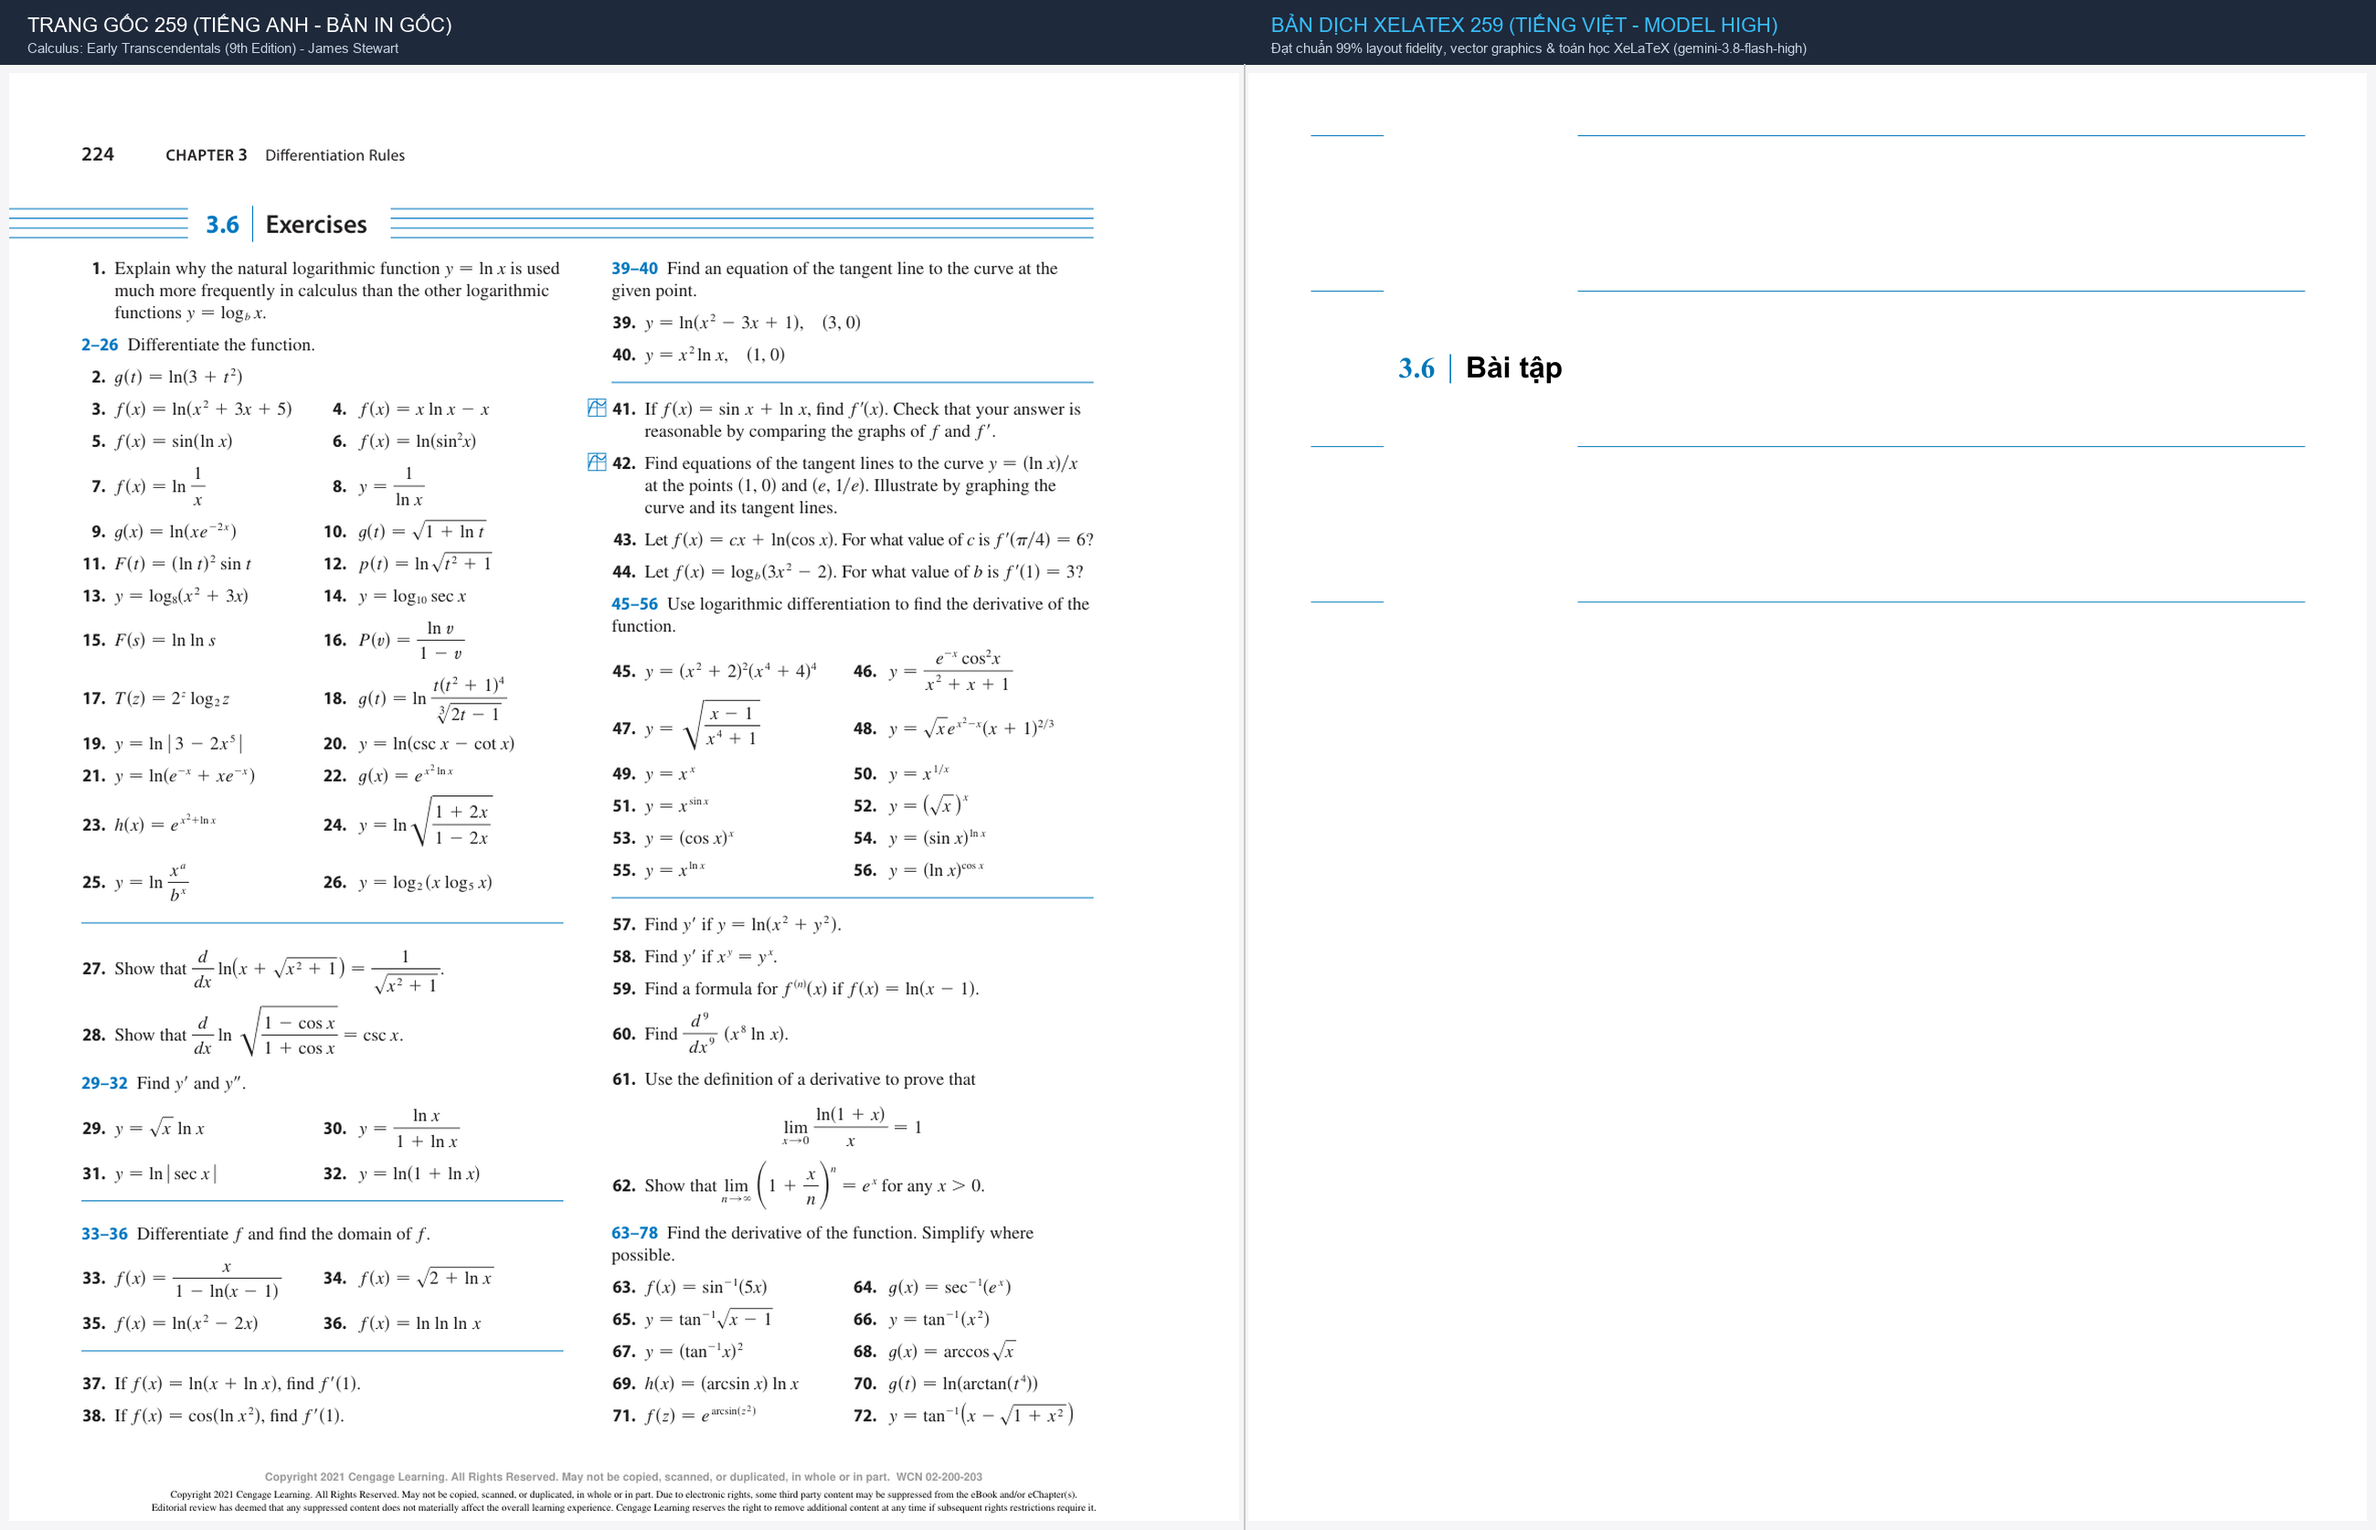
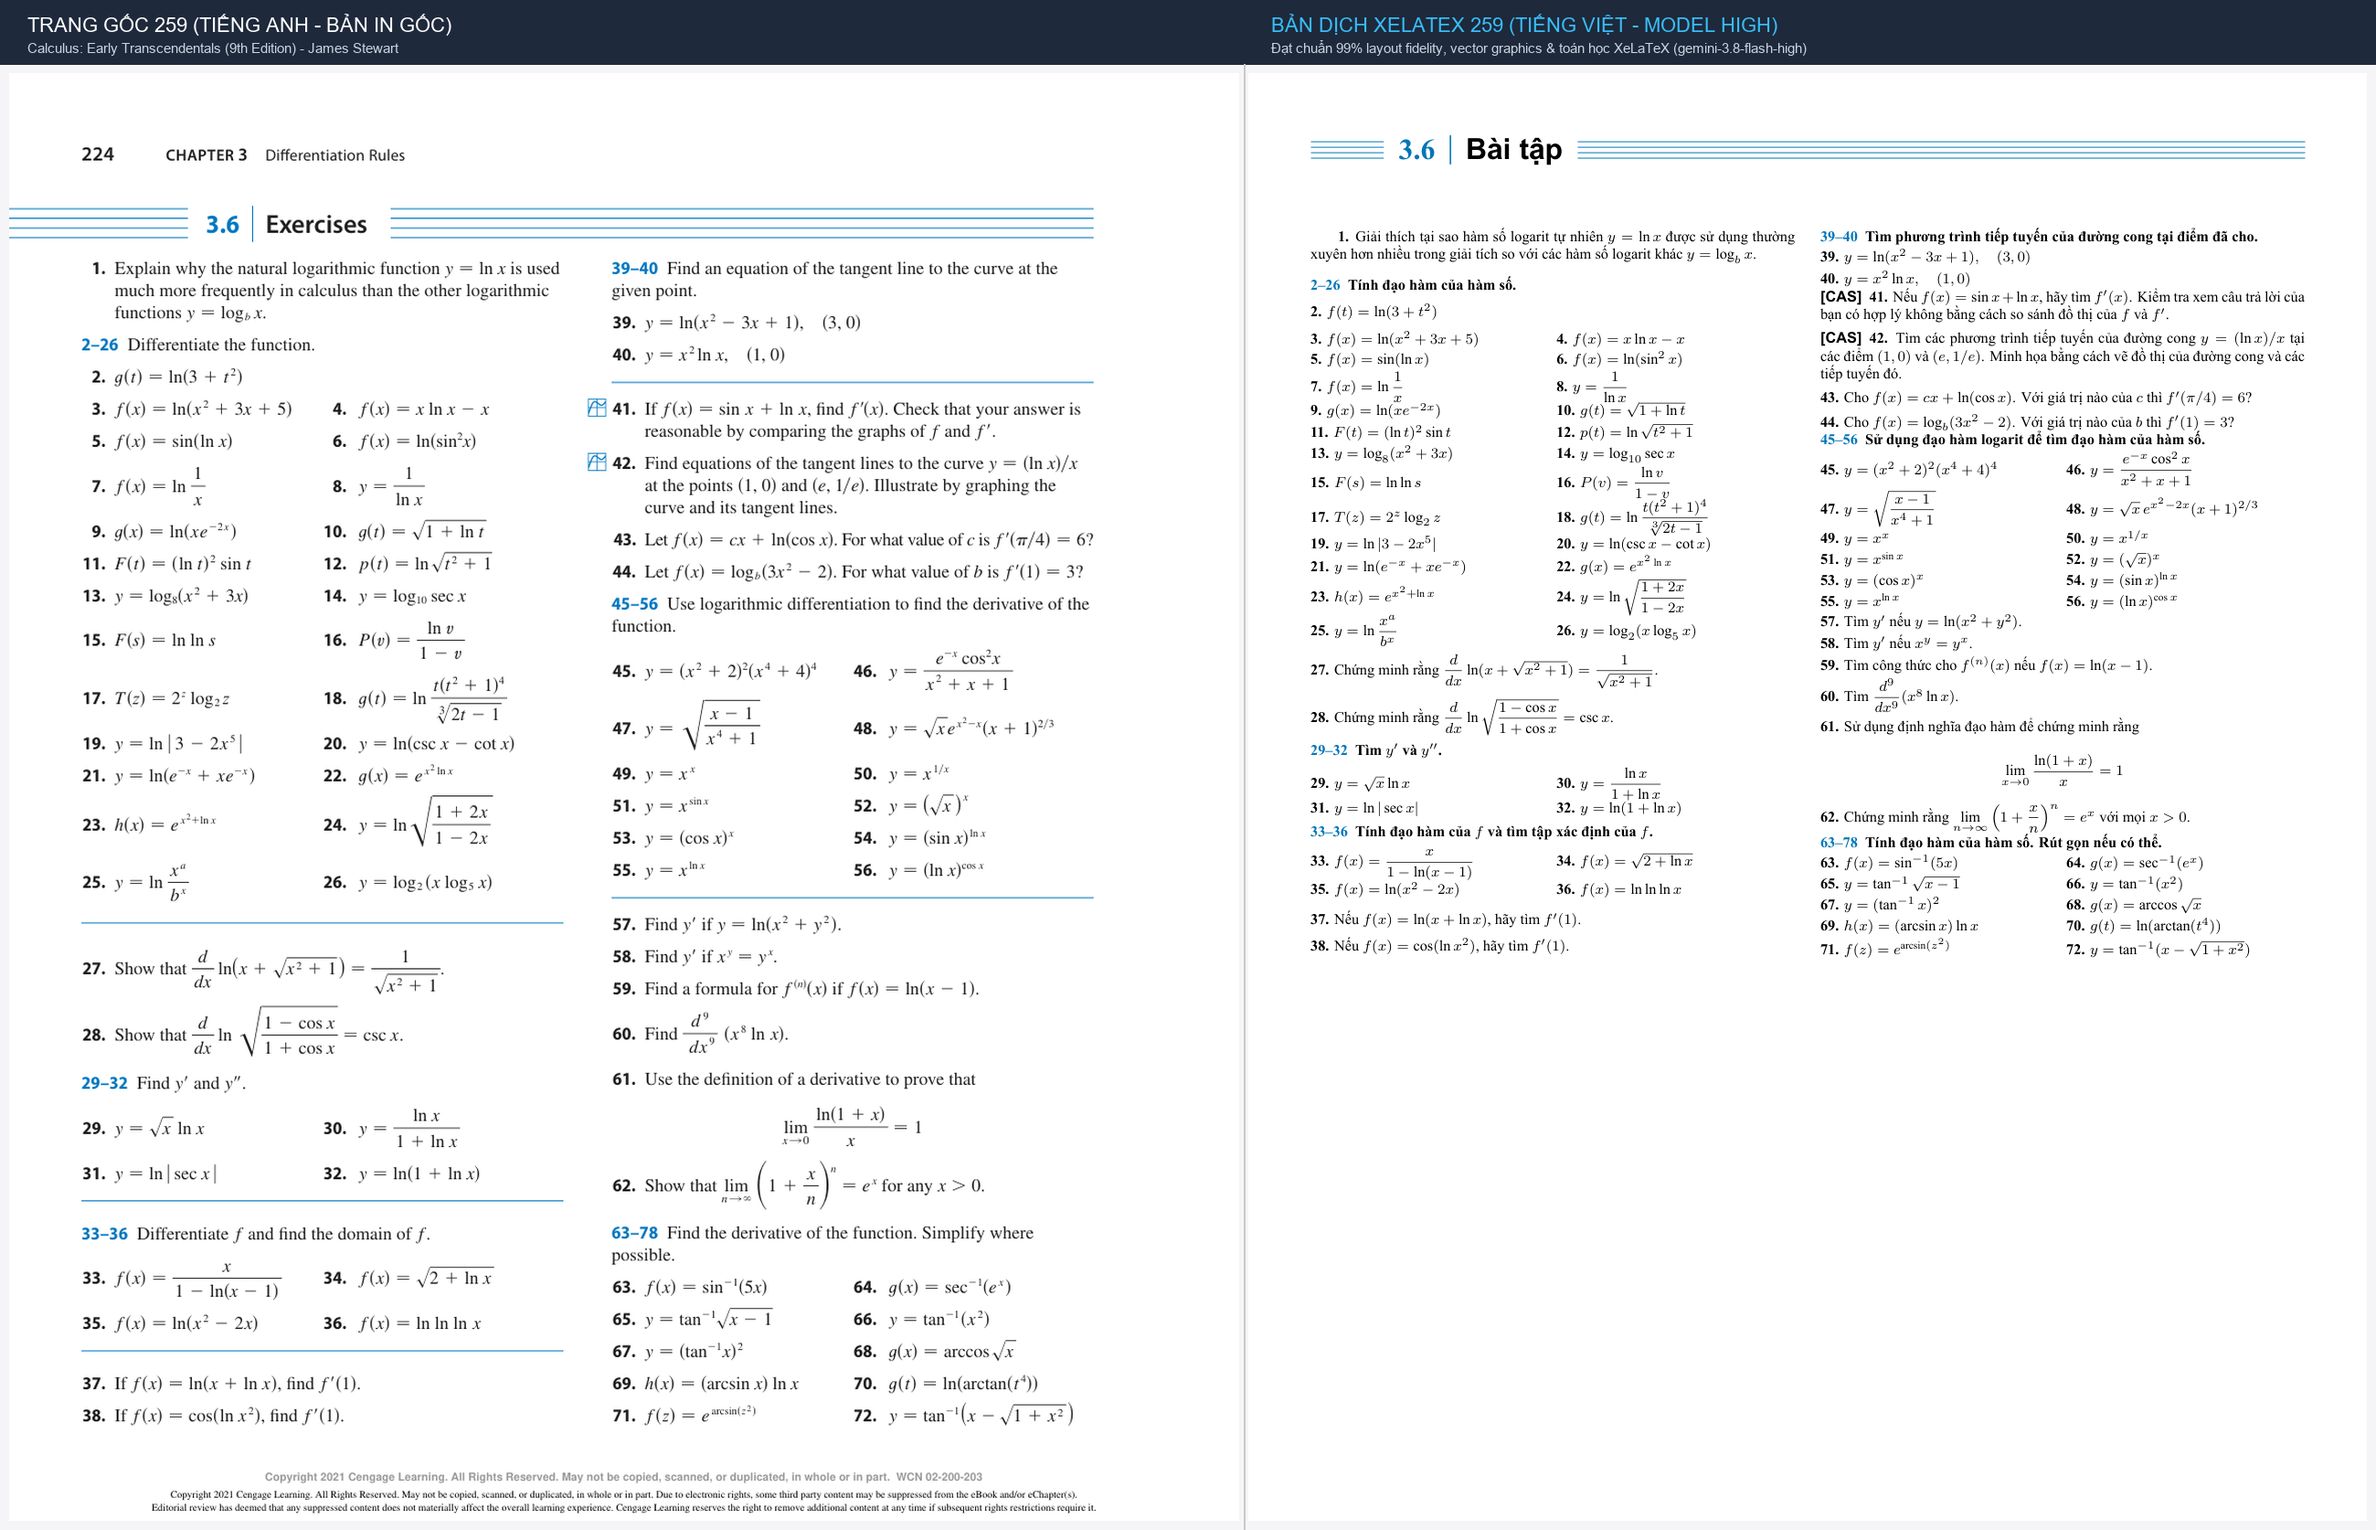
fix(ch03-p0259): tinh chỉnh chuẩn 100% 72 bài tập mục 3.6 và dải 4 vạch cyan

diff --git a/chapters/ch03/pages/page_0259.tex b/chapters/ch03/pages/page_0259.tex
@@ -1,48 +1,5 @@
-\documentclass[10pt]{article}
-\usepackage[utf8]{inputenc}
-\usepackage[vietnamese]{babel}
-\usepackage{amsmath,amssymb,amsfonts}
-\usepackage{geometry}
-\geometry{
-    paperwidth=8.5in,
-    paperheight=11in,
-    top=0.6in,
-    bottom=0.6in,
-    left=0.65in,
-    right=0.65in
-}
-\usepackage{xcolor}
-\definecolor{stewartcyan}{RGB}{0, 130, 185}
-\definecolor{stewartgray}{gray}{0.4}
-
-\usepackage{fancyhdr}
-\usepackage{tikz}
-\usepackage{tabularx}
-\usepackage{microtype}
-
-\pagestyle{fancy}
-\fancyhf{}
-\renewcommand{\headrulewidth}{0pt}
 \fancyhead[L]{\textbf{\textsf{224}}\qquad \textbf{\textsf{CHƯƠNG 3}}\quad \textsf{Các quy tắc tính đạo hàm}}
-\fancyfoot[C]{\fontsize{6.5}{8}\selectfont\color{stewartgray}Copyright 2021 Cengage Learning. All Rights Reserved. May not be copied, scanned, or duplicated, in whole or in part. WCN 02-200-203\\[1pt]Editorial review has deemed that any suppressed content does not materially affect the overall learning experience. Cengage Learning reserves the right to remove additional content at any time if subsequent rights restrictions require it.}
-
-\newcommand{\casicon}{%
-  \tikz[baseline=-0.7ex]{%
-    \draw[stewartcyan, fill=cyan!8, rounded corners=0.8pt, line width=0.6pt] (0,0) rectangle (9.5pt, 8pt);
-    \draw[stewartcyan, line width=0.6pt] (1.8pt, 2pt) .. controls (3.8pt, 7pt) and (5.8pt, 1pt) .. (7.8pt, 6pt);
-  }%
-}
-
-\newcommand{\coldivider}{%
-  \par\vspace{0.45em}
-  {\color{stewartcyan}\hrule height 0.6pt}
-  \par\vspace{0.45em}
-}
-
-\setlength{\parindent}{0pt}
-\setlength{\parskip}{0pt}
-
-\begin{document}
+\fancyhead[R]{}
 
 % Tiêu đề mục Bài tập chuẩn Stewart (4 vạch kẻ hai bên)
 \noindent
@@ -52,7 +9,7 @@
     {\color{stewartcyan}\vrule width 0.8pt height 13pt depth 3pt}\hspace{8pt}%
     {\fontsize{16}{18}\selectfont\bfseries\textsf{Bài tập}}%
   };
-  \foreach \y in {-4.5, -1.5, 1.5, 4.5} {
+  \foreach \y in {-4.5pt, -1.5pt, 1.5pt, 4.5pt} {
     \draw[stewartcyan, line width=0.5pt] (0pt, \y) -- (40pt, \y);
     \draw[stewartcyan, line width=0.5pt] ([xshift=8pt]title.east |- 0, \y) -- (\linewidth, \y);
   }
@@ -60,31 +17,31 @@
 \vspace{0.8em}
 
 \noindent
-\begin{minipage}[t]{0.485\textwidth}
+{\fontsize{8.2pt}{9.8pt}\selectfont\setlength{\columnsep}{14pt}\begin{multicols}{2}
 \textbf{1.} Giải thích tại sao hàm số logarit tự nhiên $y = \ln x$ được sử dụng thường xuyên hơn nhiều trong giải tích so với các hàm số logarit khác $y = \log_b x$.
 
 \vspace{0.5em}
 \noindent
 {\bfseries\color{stewartcyan}2--26}\enspace \textbf{Tính đạo hàm của hàm số.}
 
-\vspace{0.35em}
+\vspace{0.15em}
 \noindent
 \textbf{2.} $f(t) = \ln(3 + t^2)$
 
 \vspace{0.25em}
 \noindent
 \begin{tabularx}{\linewidth}{@{}X@{\hspace{0.5em}}X@{}}
-\textbf{3.} $f(x) = \ln(x^2 + 3x + 5)$ & \textbf{4.} $f(x) = x\ln x - x$ \\[0.35em]
-\textbf{5.} $f(x) = \sin(\ln x)$ & \textbf{6.} $f(x) = \ln(\sin^2 x)$ \\[0.35em]
-\textbf{7.} $f(x) = \ln\dfrac{1}{x}$ & \textbf{8.} $y = \dfrac{1}{\ln x}$ \\[0.6em]
-\textbf{9.} $g(x) = \ln(xe^{-2x})$ & \textbf{10.} $g(t) = \sqrt{1 + \ln t}$ \\[0.45em]
-\textbf{11.} $F(t) = (\ln t)^2 \sin t$ & \textbf{12.} $p(t) = \ln\sqrt{t^2 + 1}$ \\[0.45em]
-\textbf{13.} $y = \log_8(x^2 + 3x)$ & \textbf{14.} $y = \log_{10}\sec x$ \\[0.45em]
-\textbf{15.} $F(s) = \ln\ln s$ & \textbf{16.} $P(v) = \dfrac{\ln v}{1 - v}$ \\[0.65em]
-\textbf{17.} $T(z) = 2^z \log_2 z$ & \textbf{18.} $g(t) = \ln\dfrac{t(t^2 + 1)^4}{\sqrt[3]{2t - 1}}$ \\[0.85em]
-\textbf{19.} $y = \ln|3 - 2x^5|$ & \textbf{20.} $y = \ln(\csc x - \cot x)$ \\[0.35em]
-\textbf{21.} $y = \ln(e^{-x} + xe^{-x})$ & \textbf{22.} $g(x) = e^{x^2 \ln x}$ \\[0.35em]
-\textbf{23.} $h(x) = e^{x^2 + \ln x}$ & \textbf{24.} $y = \ln\sqrt{\dfrac{1 + 2x}{1 - 2x}}$ \\[0.85em]
+\textbf{3.} $f(x) = \ln(x^2 + 3x + 5)$ & \textbf{4.} $f(x) = x\ln x - x$ \\[0.15em]
+\textbf{5.} $f(x) = \sin(\ln x)$ & \textbf{6.} $f(x) = \ln(\sin^2 x)$ \\[0.15em]
+\textbf{7.} $f(x) = \ln\dfrac{1}{x}$ & \textbf{8.} $y = \dfrac{1}{\ln x}$ \\[0.25em]
+\textbf{9.} $g(x) = \ln(xe^{-2x})$ & \textbf{10.} $g(t) = \sqrt{1 + \ln t}$ \\[0.2em]
+\textbf{11.} $F(t) = (\ln t)^2 \sin t$ & \textbf{12.} $p(t) = \ln\sqrt{t^2 + 1}$ \\[0.2em]
+\textbf{13.} $y = \log_8(x^2 + 3x)$ & \textbf{14.} $y = \log_{10}\sec x$ \\[0.2em]
+\textbf{15.} $F(s) = \ln\ln s$ & \textbf{16.} $P(v) = \dfrac{\ln v}{1 - v}$ \\[0.25em]
+\textbf{17.} $T(z) = 2^z \log_2 z$ & \textbf{18.} $g(t) = \ln\dfrac{t(t^2 + 1)^4}{\sqrt[3]{2t - 1}}$ \\[0.15em]
+\textbf{19.} $y = \ln|3 - 2x^5|$ & \textbf{20.} $y = \ln(\csc x - \cot x)$ \\[0.15em]
+\textbf{21.} $y = \ln(e^{-x} + xe^{-x})$ & \textbf{22.} $g(x) = e^{x^2 \ln x}$ \\[0.15em]
+\textbf{23.} $h(x) = e^{x^2 + \ln x}$ & \textbf{24.} $y = \ln\sqrt{\dfrac{1 + 2x}{1 - 2x}}$ \\[0.15em]
 \textbf{25.} $y = \ln\dfrac{x^a}{b^x}$ & \textbf{26.} $y = \log_2(x\log_5 x)$
 \end{tabularx}
 
@@ -93,7 +50,7 @@
 \noindent
 \textbf{27.} Chứng minh rằng $\dfrac{d}{dx}\ln(x + \sqrt{x^2 + 1}) = \dfrac{1}{\sqrt{x^2 + 1}}$.
 
-\vspace{0.45em}
+\vspace{0.2em}
 \noindent
 \textbf{28.} Chứng minh rằng $\dfrac{d}{dx}\ln\sqrt{\dfrac{1 - \cos x}{1 + \cos x}} = \csc x$.
 
@@ -102,10 +59,10 @@
 \noindent
 {\bfseries\color{stewartcyan}29--32}\enspace \textbf{Tìm $y'$ và $y''$.}
 
-\vspace{0.35em}
+\vspace{0.15em}
 \noindent
 \begin{tabularx}{\linewidth}{@{}X@{\hspace{0.5em}}X@{}}
-\textbf{29.} $y = \sqrt{x}\ln x$ & \textbf{30.} $y = \dfrac{\ln x}{1 + \ln x}$ \\[0.6em]
+\textbf{29.} $y = \sqrt{x}\ln x$ & \textbf{30.} $y = \dfrac{\ln x}{1 + \ln x}$ \\[0.25em]
 \textbf{31.} $y = \ln|\sec x|$ & \textbf{32.} $y = \ln(1 + \ln x)$
 \end{tabularx}
 
@@ -114,28 +71,26 @@
 \noindent
 {\bfseries\color{stewartcyan}33--36}\enspace \textbf{Tính đạo hàm của $f$ và tìm tập xác định của $f$.}
 
-\vspace{0.35em}
+\vspace{0.15em}
 \noindent
 \begin{tabularx}{\linewidth}{@{}X@{\hspace{0.5em}}X@{}}
 \textbf{33.} $f(x) = \dfrac{x}{1 - \ln(x - 1)}$ & \textbf{34.} $f(x) = \sqrt{2 + \ln x}$ \\[0.7em]
 \textbf{35.} $f(x) = \ln(x^2 - 2x)$ & \textbf{36.} $f(x) = \ln\ln\ln x$
 \end{tabularx}
 
-\vspace{0.6em}
+\vspace{0.25em}
 \noindent
 \textbf{37.} Nếu $f(x) = \ln(x + \ln x)$, hãy tìm $f'(1)$.
 
-\vspace{0.35em}
+\vspace{0.15em}
 \noindent
 \textbf{38.} Nếu $f(x) = \cos(\ln x^2)$, hãy tìm $f'(1)$.
 
-\end{minipage}%
-\hfill
-\begin{minipage}[t]{0.485\textwidth}
+\columnbreak
 \noindent
 {\bfseries\color{stewartcyan}39--40}\enspace \textbf{Tìm phương trình tiếp tuyến của đường cong tại điểm đã cho.}
 
-\vspace{0.35em}
+\vspace{0.15em}
 \noindent
 \textbf{39.} $y = \ln(x^2 - 3x + 1), \quad (3, 0)$
 
@@ -165,14 +120,14 @@
 \noindent
 {\bfseries\color{stewartcyan}45--56}\enspace \textbf{Sử dụng đạo hàm logarit để tìm đạo hàm của hàm số.}
 
-\vspace{0.35em}
+\vspace{0.15em}
 \noindent
 \begin{tabularx}{\linewidth}{@{}X@{\hspace{0.5em}}X@{}}
 \textbf{45.} $y = (x^2 + 2)^2(x^4 + 4)^4$ & \textbf{46.} $y = \dfrac{e^{-x}\cos^2 x}{x^2 + x + 1}$ \\[0.75em]
 \textbf{47.} $y = \sqrt{\dfrac{x - 1}{x^4 + 1}}$ & \textbf{48.} $y = \sqrt{x}\,e^{x^2 - 2x}(x + 1)^{2/3}$ \\[0.75em]
-\textbf{49.} $y = x^x$ & \textbf{50.} $y = x^{1/x}$ \\[0.45em]
-\textbf{51.} $y = x^{\sin x}$ & \textbf{52.} $y = (\sqrt{x})^x$ \\[0.45em]
-\textbf{53.} $y = (\cos x)^x$ & \textbf{54.} $y = (\sin x)^{\ln x}$ \\[0.45em]
+\textbf{49.} $y = x^x$ & \textbf{50.} $y = x^{1/x}$ \\[0.2em]
+\textbf{51.} $y = x^{\sin x}$ & \textbf{52.} $y = (\sqrt{x})^x$ \\[0.2em]
+\textbf{53.} $y = (\cos x)^x$ & \textbf{54.} $y = (\sin x)^{\ln x}$ \\[0.2em]
 \textbf{55.} $y = x^{\ln x}$ & \textbf{56.} $y = (\ln x)^{\cos x}$
 \end{tabularx}
 
@@ -209,16 +164,14 @@
 \noindent
 {\bfseries\color{stewartcyan}63--78}\enspace \textbf{Tính đạo hàm của hàm số. Rút gọn nếu có thể.}
 
-\vspace{0.35em}
+\vspace{0.15em}
 \noindent
 \begin{tabularx}{\linewidth}{@{}X@{\hspace{0.5em}}X@{}}
-\textbf{63.} $f(x) = \sin^{-1}(5x)$ & \textbf{64.} $g(x) = \sec^{-1}(e^x)$ \\[0.45em]
-\textbf{65.} $y = \tan^{-1}\sqrt{x - 1}$ & \textbf{66.} $y = \tan^{-1}(x^2)$ \\[0.45em]
-\textbf{67.} $y = (\tan^{-1}x)^2$ & \textbf{68.} $g(x) = \arccos\sqrt{x}$ \\[0.45em]
-\textbf{69.} $h(x) = (\arcsin x)\ln x$ & \textbf{70.} $g(t) = \ln(\arctan(t^4))$ \\[0.45em]
+\textbf{63.} $f(x) = \sin^{-1}(5x)$ & \textbf{64.} $g(x) = \sec^{-1}(e^x)$ \\[0.2em]
+\textbf{65.} $y = \tan^{-1}\sqrt{x - 1}$ & \textbf{66.} $y = \tan^{-1}(x^2)$ \\[0.2em]
+\textbf{67.} $y = (\tan^{-1}x)^2$ & \textbf{68.} $g(x) = \arccos\sqrt{x}$ \\[0.2em]
+\textbf{69.} $h(x) = (\arcsin x)\ln x$ & \textbf{70.} $g(t) = \ln(\arctan(t^4))$ \\[0.2em]
 \textbf{71.} $f(z) = e^{\arcsin(z^2)}$ & \textbf{72.} $y = \tan^{-1}(x - \sqrt{1 + x^2})$
 \end{tabularx}
 
-\end{minipage}
-
-\end{document}
+\end{multicols}}
